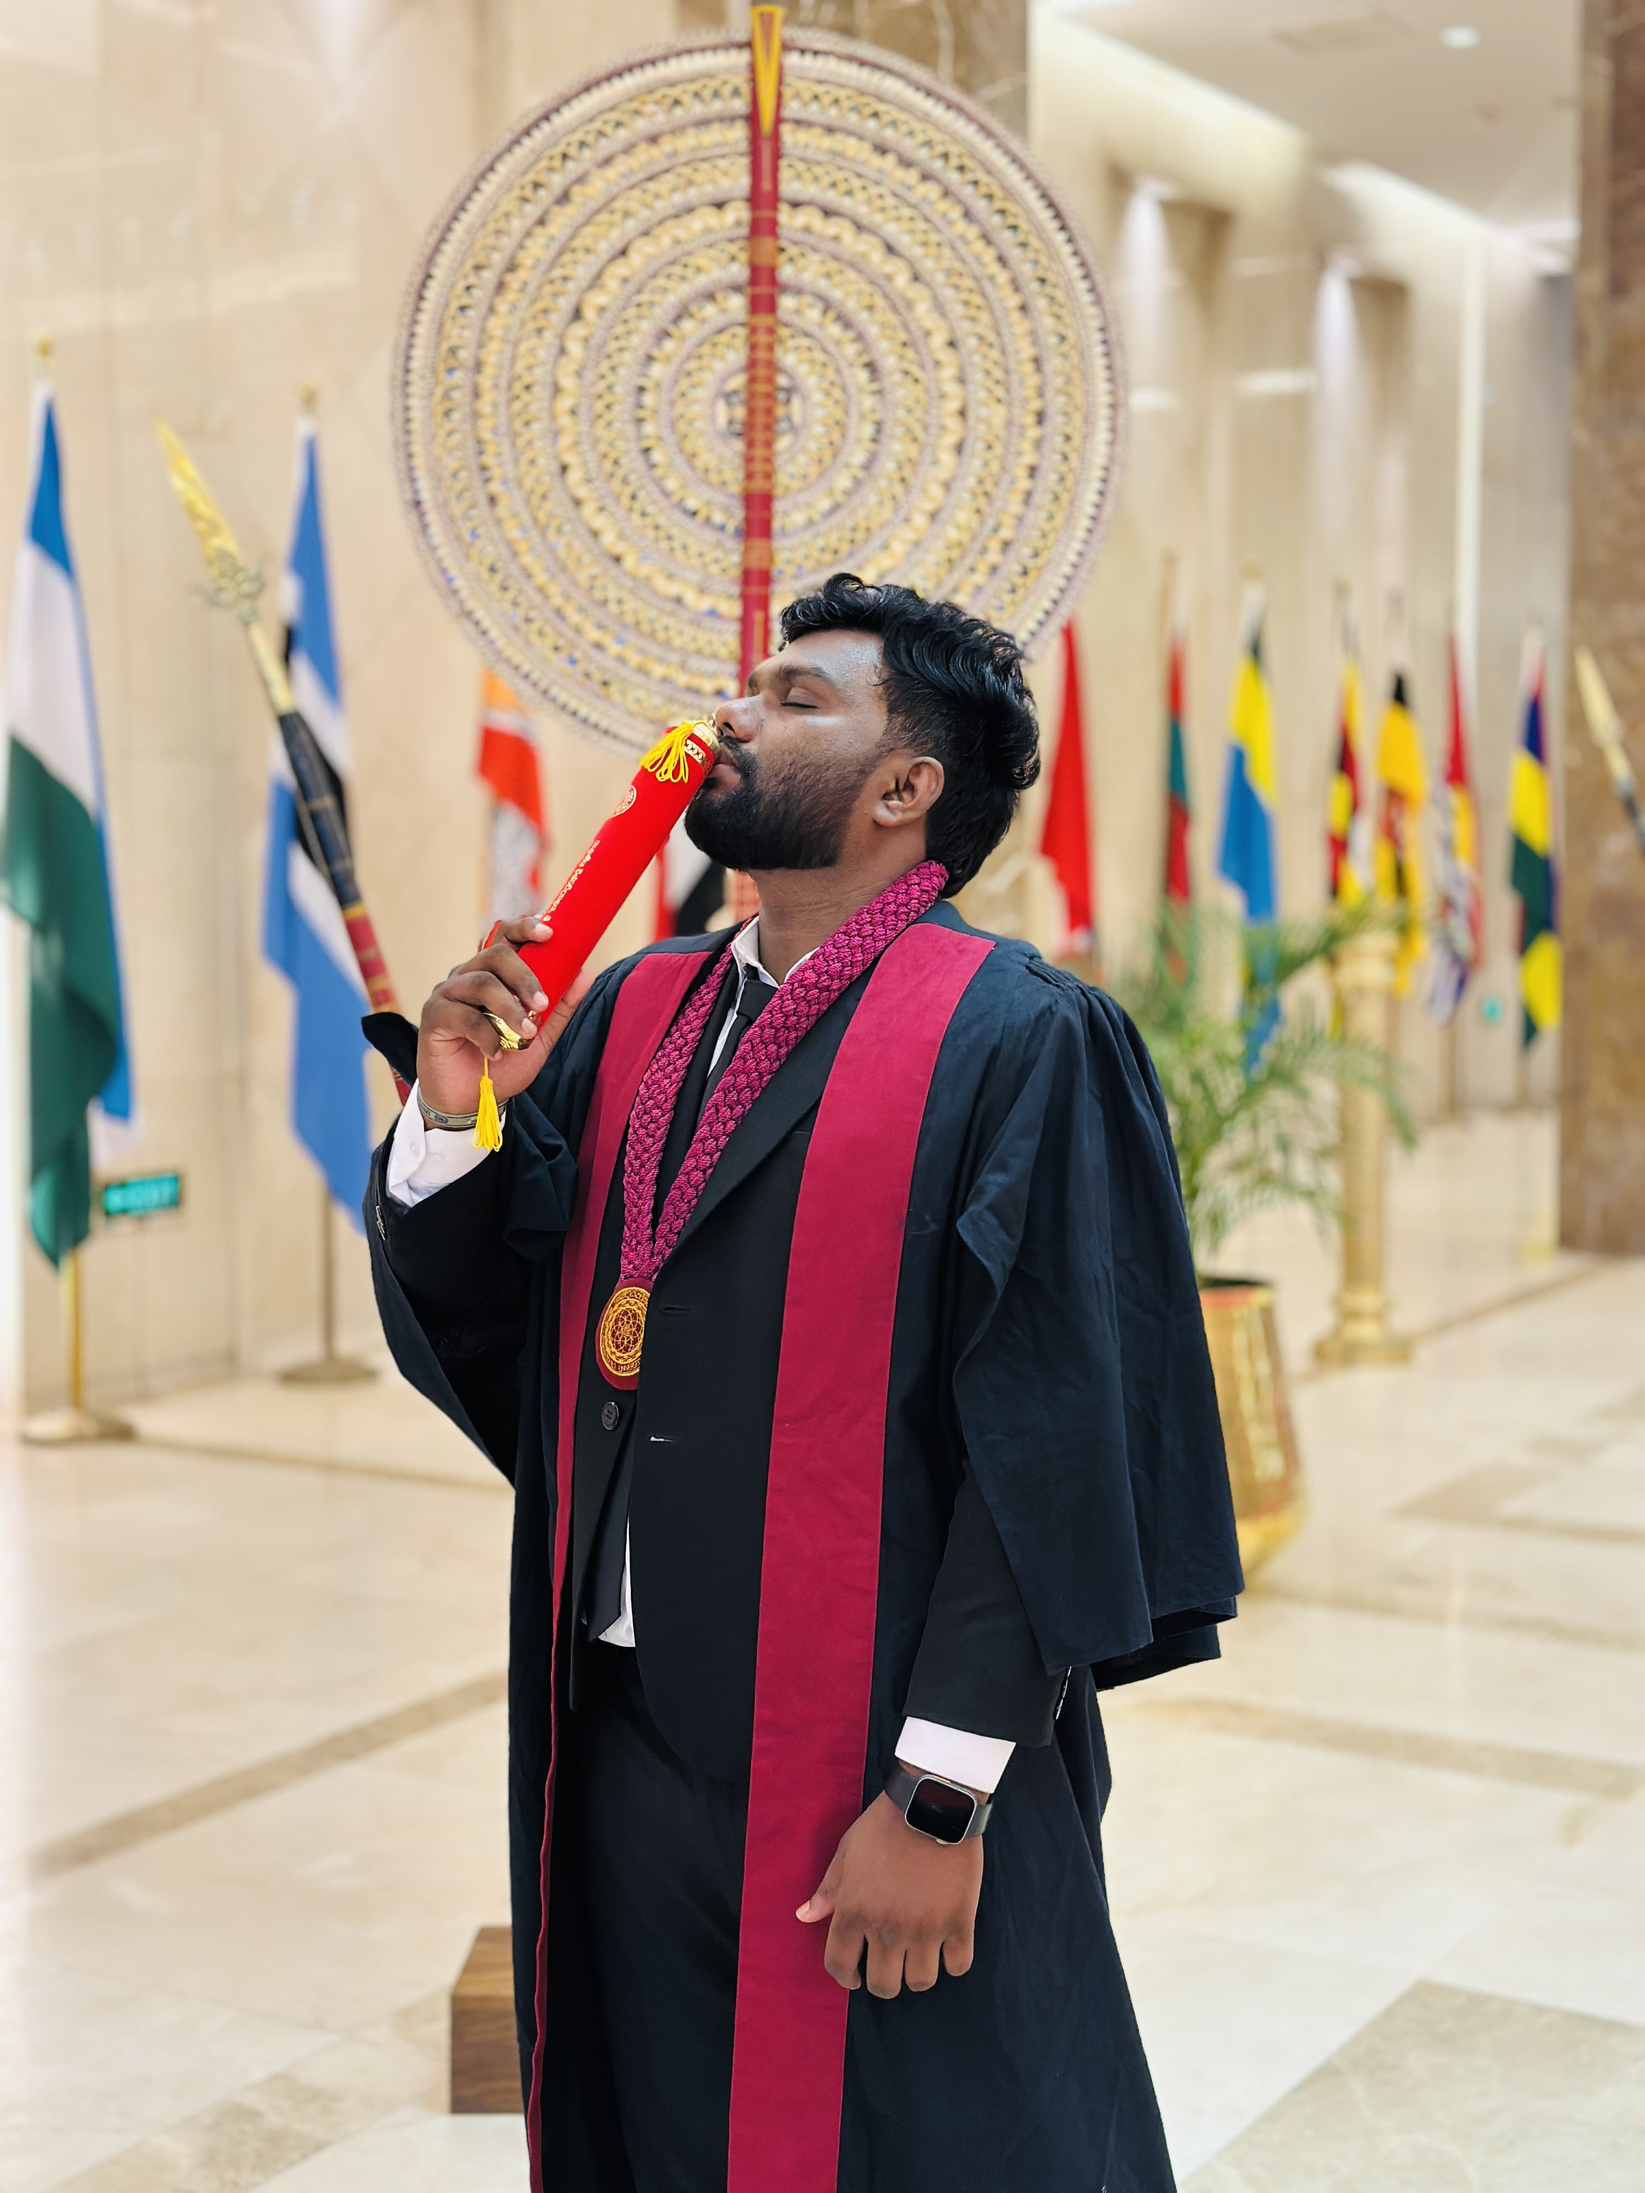
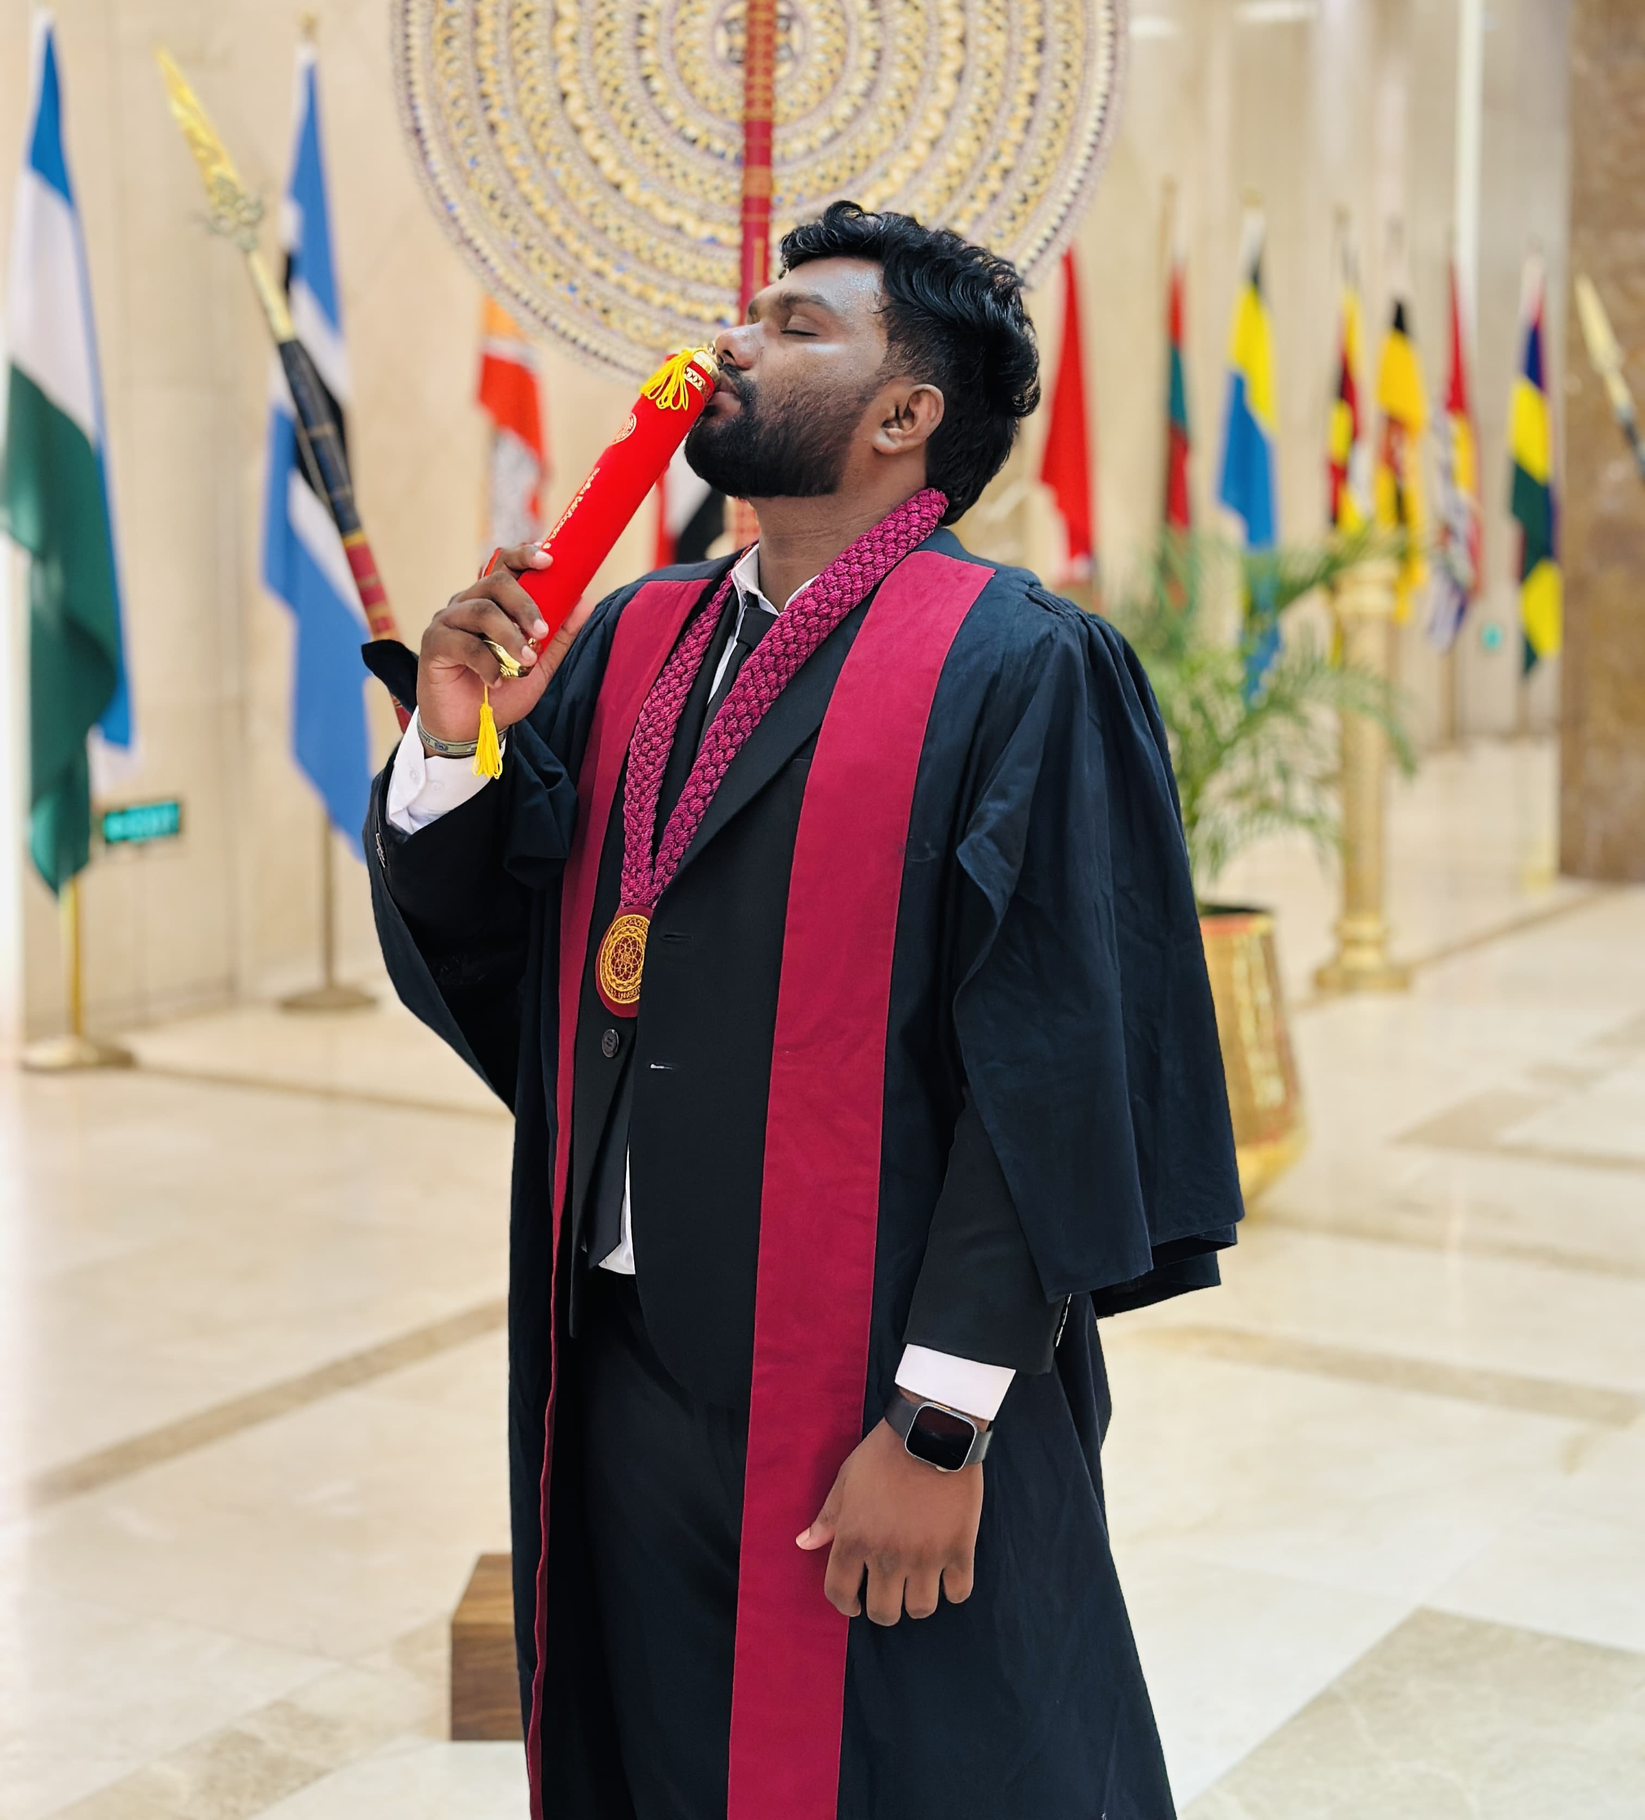
Add files via upload

diff --git a/index.html b/index.html
@@ -1579,7 +1579,7 @@ footer span {
       <div class="geo-img-box">
         <div class="geo-img-inner">
           <!-- මෙහි 'teacher.jpg' වෙනුවට ඔයාගේ פොටෝ එකේ නම දෙන්න -->
-          <img src="tt1.jpg" alt="Geography Teacher" style="object-position: top;">
+          <img src="s1.jpg" alt="Geography Teacher" style="object-position: top;">
         </div>
       </div>
 
